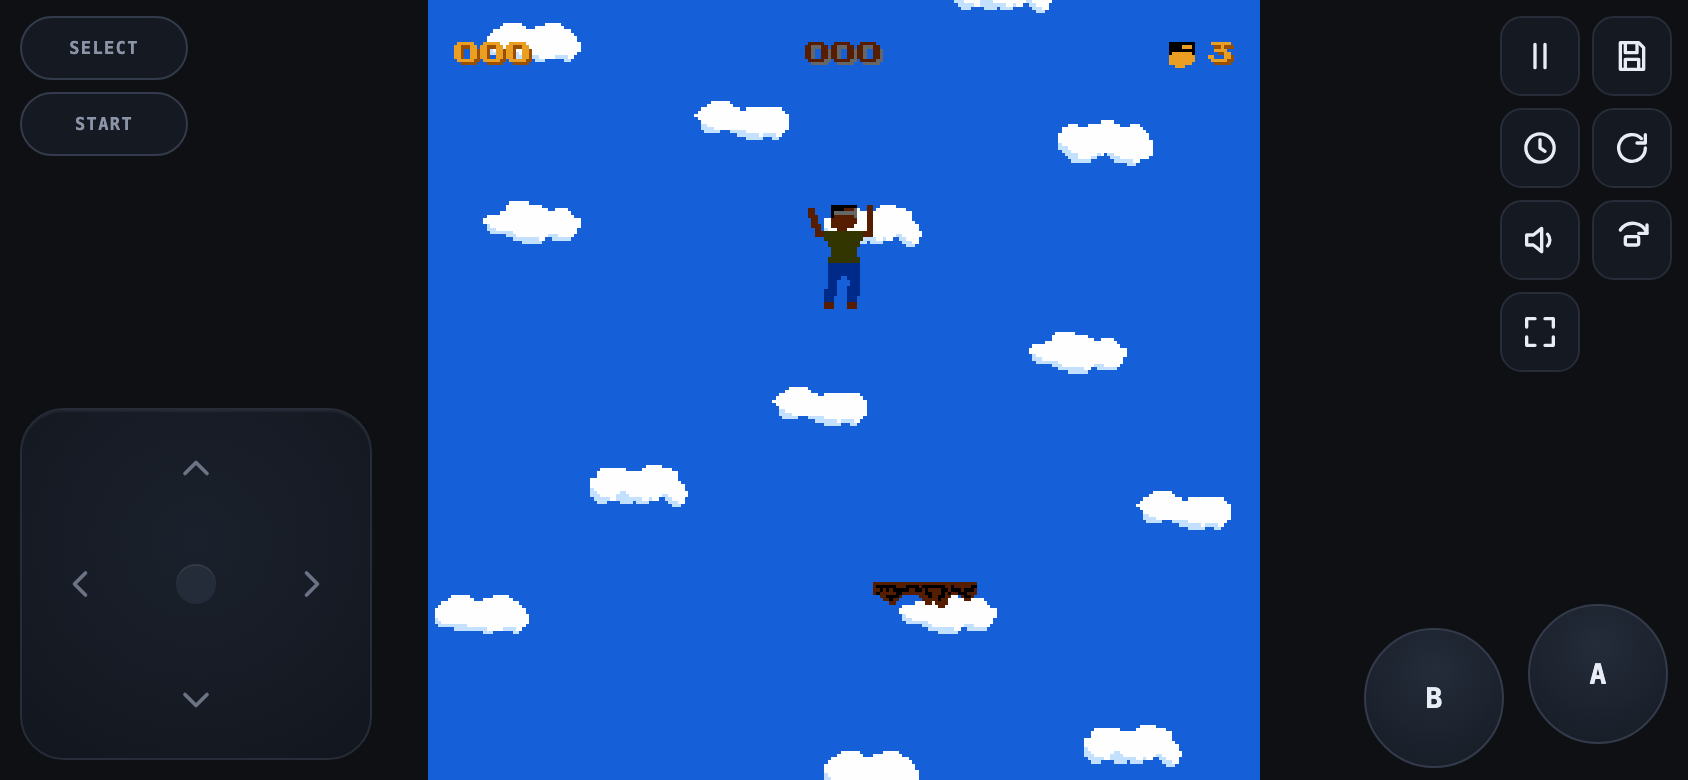
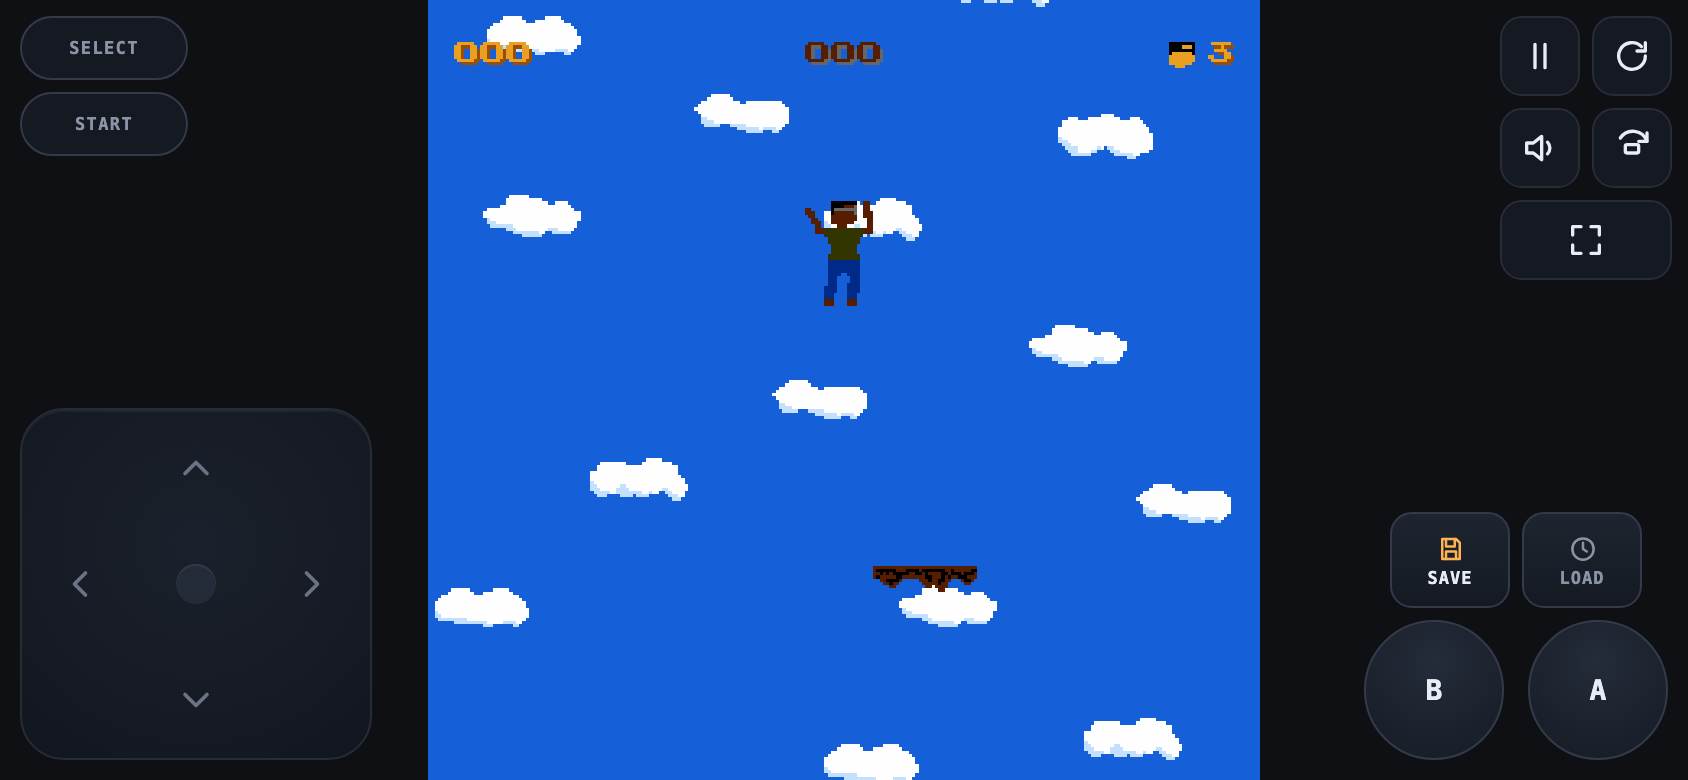
nesearch: put big save/load buttons above A/B on touch screens
The thumb pad now carries labelled Save/Load buttons directly above A/B
(60x51 on a 390px phone, 50x44 on a 320px phone, 60x48 in landscape), so a
checkpoint is one thumb tap away during play. The small toolbar pair is
hidden on touch devices; desktop keeps it next to F2/F3.

Save stays disabled until the game has started and Load until a slot exists;
both refresh when playback starts or the CPU halts. The A/B stagger is
dropped on touch so the two rows stay clear of each other.

diff --git a/nesearch/ui/play.html b/nesearch/ui/play.html
@@ -229,6 +229,11 @@
   body.touch .pad {
     display: flex; align-items: center; justify-content: space-between; gap: 8px;
   }
+  /* On touch screens Save/Load live above A/B instead of in the toolbar. */
+  body.touch #saveBtn,
+  body.touch #loadBtn { display: none; }
+  body.touch .action.a,
+  body.touch .action.b { transform: none; }
   /* Portrait: the screen keeps a little air above the thumb pad instead of
      hugging the header, which reads better on tall phones. */
   body.touch .stage-area { align-items: center; }
@@ -275,7 +280,30 @@
   }
   .sys.on { color: var(--accent); border-color: var(--accent); background: rgba(255, 180, 84, 0.1); }
 
-  .actions { display: flex; align-items: center; gap: clamp(6px, 2vw, 12px); }
+  .actions {
+    display: flex; flex-direction: column; align-items: center;
+    gap: clamp(6px, 1.6vw, 10px);
+  }
+  .action-row { display: flex; align-items: center; gap: clamp(6px, 2vw, 12px); }
+  .state-actions { display: flex; align-items: center; gap: clamp(6px, 1.6vw, 10px); }
+  .state-action {
+    display: flex; flex-direction: column; align-items: center; justify-content: center;
+    gap: 3px;
+    width: clamp(46px, 15.5vw, 66px);
+    height: clamp(44px, 13vw, 58px);
+    padding: 0;
+    border: 1px solid var(--line-strong); border-radius: 13px;
+    background: linear-gradient(180deg, #1e2530, #151a22);
+    color: var(--muted);
+    font: 650 8.5px/1 var(--mono); letter-spacing: .06em; text-transform: uppercase;
+    cursor: pointer; touch-action: none;
+  }
+  .state-action .i { width: clamp(14px, 4.6vw, 19px); height: clamp(14px, 4.6vw, 19px); }
+  .state-action.save { color: var(--text); }
+  .state-action.save .i { color: var(--accent); }
+  .state-action:active { transform: translateY(1px); }
+  .state-action[disabled] { opacity: .4; cursor: default; }
+  .state-action[disabled]:active { transform: none; }
   .action {
     width: clamp(46px, 15vw, 66px); height: clamp(46px, 15vw, 66px);
     padding: 0; border: 1px solid var(--line-strong); border-radius: 50%;
@@ -334,6 +362,7 @@
       gap: 6px;
     }
     .toolbar .tool { width: 40px; height: 40px; }
+    .toolbar #fullBtn { grid-column: 1 / -1; width: 100%; }
     .toolbar .stat { display: none; }
     body.touch .pad {
       position: fixed; inset: 0; z-index: 5;
@@ -359,14 +388,22 @@
     body.touch .actions {
       right: calc(var(--safe-r) + 10px);
       bottom: calc(var(--safe-b) + 10px);
+      gap: 6px;
     }
+    body.touch .state-action {
+      width: clamp(44px, calc(var(--side) / 2 - 12px), 60px);
+      height: clamp(38px, calc(var(--side) / 4 + 20px), 48px);
+      border-radius: 11px;
+    }
+    body.touch .state-action .i { width: 15px; height: 15px; }
+    body.touch .state-actions { gap: 6px; }
     body.touch .action {
       width: clamp(50px, calc(var(--side) / 2 - 10px), 70px);
       height: clamp(50px, calc(var(--side) / 2 - 10px), 70px);
       font-size: 14px;
     }
-    body.touch .action.a { transform: translateY(-8px); }
-    body.touch .action.b { transform: translateY(4px); }
+    body.touch .action.a,
+    body.touch .action.b { transform: none; }
   }
 
   /* Very narrow phones: the kicker only costs title space. */
@@ -516,8 +553,24 @@
       <button class="sys" type="button" data-bit="START" aria-label="Start">START</button>
     </div>
     <div class="actions">
-      <button class="action b" type="button" data-bit="B" aria-label="B button">B</button>
-      <button class="action a" type="button" data-bit="A" aria-label="A button">A</button>
+      <div class="state-actions">
+        <button class="state-action save" id="padSaveBtn" type="button" aria-label="Save checkpoint" title="Save checkpoint" disabled>
+          <svg class="i" viewBox="0 0 24 24" aria-hidden="true">
+            <path d="M5 4h11l3 3v13H5z"/><path d="M8 4v6h7V4"/><path d="M8 20v-6h8v6"/>
+          </svg>
+          <span>Save</span>
+        </button>
+        <button class="state-action load" id="padLoadBtn" type="button" aria-label="Load saved state" title="No saved state yet" disabled>
+          <svg class="i" viewBox="0 0 24 24" aria-hidden="true">
+            <circle cx="12" cy="12" r="8.5"/><path d="M12 7v5l3 2"/>
+          </svg>
+          <span>Load</span>
+        </button>
+      </div>
+      <div class="action-row">
+        <button class="action b" type="button" data-bit="B" aria-label="B button">B</button>
+        <button class="action a" type="button" data-bit="A" aria-label="A button">A</button>
+      </div>
     </div>
   </div>
 

diff --git a/nesearch/ui/play.js b/nesearch/ui/play.js
@@ -63,6 +63,8 @@ const dom = {
   pauseBtn: document.getElementById("pauseBtn"),
   saveBtn: document.getElementById("saveBtn"),
   loadBtn: document.getElementById("loadBtn"),
+  padSaveBtn: document.getElementById("padSaveBtn"),
+  padLoadBtn: document.getElementById("padLoadBtn"),
   reloadBtn: document.getElementById("reloadBtn"),
   rotateBtn: document.getElementById("rotateBtn"),
   soundBtn: document.getElementById("soundBtn"),
@@ -352,6 +354,7 @@ function stepFrame() {
     stopAudio();
     dom.pauseBtn.disabled = true;
     dom.pauseBtn.dataset.mode = "play";
+    updateStateButtons();
     showOverlay({
       heading: "CPU halted",
       text: title,
@@ -454,6 +457,7 @@ function startRunning() {
   dom.pauseBtn.disabled = false;
   dom.pauseBtn.dataset.mode = "pause";
   dom.pauseBtn.setAttribute("aria-label", "Pause");
+  updateStateButtons();
   state.rafId = requestAnimationFrame(loop);
 }
 
@@ -836,7 +840,7 @@ function updateOverlayState() {
 function updateStateButtons() {
   const loaded = Boolean(state.wasm) && Boolean(state.romBytes) && Boolean(stateApi());
   if (dom.saveBtn) {
-    dom.saveBtn.disabled = !loaded || state.halted;
+    dom.saveBtn.disabled = !loaded || state.halted || !state.started;
     dom.saveBtn.title = state.halted ? "Cannot save after a crash" : "Save state (F2)";
   }
   if (dom.loadBtn) {
@@ -846,8 +850,16 @@ function updateStateButtons() {
       ? `Load ${target.kind === "auto" ? "last session" : "checkpoint"} (F3) · ${formatAge(target.slot.at)}`
       : "No saved state yet";
   }
-  if (dom.overlaySaveBtn) dom.overlaySaveBtn.disabled = !loaded || state.halted;
+  if (dom.overlaySaveBtn) dom.overlaySaveBtn.disabled = !loaded || state.halted || !state.started;
   if (dom.overlayLoadBtn) dom.overlayLoadBtn.disabled = !hasAnySlot();
+  if (dom.padSaveBtn) {
+    dom.padSaveBtn.disabled = !loaded || state.halted || !state.started;
+    dom.padSaveBtn.title = state.halted ? "Cannot save after a crash" : "Save checkpoint";
+  }
+  if (dom.padLoadBtn) {
+    dom.padLoadBtn.disabled = !loaded || !hasAnySlot();
+    dom.padLoadBtn.title = hasAnySlot() ? "Load saved state" : "No saved state yet";
+  }
   if (dom.rotateBtn) updateRotateButton();
 }
 
@@ -873,6 +885,10 @@ function saveNow(manual) {
   }
   if (state.halted) {
     if (manual) toast("The CPU halted — restart or load the last state");
+    return false;
+  }
+  if (!state.started) {
+    if (manual) toast("Start the game before saving");
     return false;
   }
   if (!captureIntoSlot({ persist: true })) {
@@ -1335,6 +1351,8 @@ function bindUi() {
   dom.pauseBtn.addEventListener("click", togglePause);
   dom.saveBtn.addEventListener("click", () => saveNow(true));
   dom.loadBtn.addEventListener("click", () => loadNow(true));
+  dom.padSaveBtn.addEventListener("click", () => saveNow(true));
+  dom.padLoadBtn.addEventListener("click", () => loadNow(true));
   dom.rotateBtn.addEventListener("click", toggleLandscape);
   dom.reloadBtn.addEventListener("click", reloadRom);
   dom.overlaySaveBtn.addEventListener("click", (event) => {

diff --git a/CHANGELOG.md b/CHANGELOG.md
@@ -2,7 +2,7 @@
 
 ## Unreleased v1.5 (in progress)
 - Added an immersive input lock to the nesearch browser player: while fullscreen (or the iOS immersive fallback) is active, a capture-phase key guard blocks browser shortcuts and function keys, `navigator.keyboard.lock()` hands them to the page where supported, and context menus, long-press callouts, selection, drag, double-click zoom, middle-click, wheel and touch scrolling/pinch are cancelled. Leaving fullscreen with `Esc` or the button restores every default; OS-level shortcuts remain the OS's.
-- Added save states to the nesearch browser player: the wasm core now serialises CPU/PPU/APU/bus/mapper state (`gem_web_save_state` / `gem_web_load_state`, ~65 KB), and the page keeps two slots in `localStorage` — a rolling auto capture (every 10 s, on pause, on tab hide) and a manual checkpoint (`F2`), restorable with `F3` or from the pause/ready/crash overlay, preferring the checkpoint while playing and the latest auto state after a refresh. A rotate button enters fullscreen and locks landscape on Android Chrome, with an explanatory fallback on iOS Safari. The web test `GEM6502/web/test/state.mjs` and the Pages check prove the restored machine renders identical frames.
+- Added save states to the nesearch browser player: the wasm core now serialises CPU/PPU/APU/bus/mapper state (`gem_web_save_state` / `gem_web_load_state`, ~65 KB), and the page keeps two slots in `localStorage` — a rolling auto capture (every 10 s, on pause, on tab hide) and a manual checkpoint (`F2`), restorable with `F3` or from the pause/ready/crash overlay, preferring the checkpoint while playing and the latest auto state after a refresh. On touch screens the Save/Load buttons sit above A/B as larger labelled buttons, with the toolbar keeping them on desktop. A rotate button enters fullscreen and locks landscape on Android Chrome, with an explanatory fallback on iOS Safari. The web test `GEM6502/web/test/state.mjs` and the Pages check prove the restored machine renders identical frames.
 - Added `site/chip-lab.html`, an 18-slide Chinese classroom deck for primary-school students. It now puts the XiangShan development model at the center: the three loops, S0–S6 gates, lockstep DiffTest, CI/checkpoints, Chisel/generated hardware and open collaboration, then maps them onto Open6502’s NEMU/RTL/DiffTest/CI/55nm path and 46.8/100 alignment score. Includes speaker notes, a quiz, a glossary and a teacher guide; linked from the Chinese navigation and sitemap.
 - Made the nesearch static pages usable on phones. The catalog turns its sidebar into a drawer, its detail panel into a bottom sheet (a right-hand sheet in landscape), keeps filters and tables scrollable, and sizes controls for touch. The browser player gained a multi-touch thumb pad (8-way D-pad with diagonals, A/B, Select/Start), a tap-to-start overlay, a landscape layout that parks the controls in the side margins, auto-pause on tab switch, wake lock, a safe fullscreen fallback for iOS and canvas sizing that fits any viewport. Keyboard and gamepad input are unchanged.
 - Added a share row to every site page footer: native share sheet, X, Facebook, Reddit, Telegram, Hacker News and copy link. Links are real anchors built from each page's canonical URL (so they work without JavaScript), keep the current `#section`, and fall back to the canonical URL on localhost.

diff --git a/site/README.md b/site/README.md
@@ -154,7 +154,8 @@ The player (`nesearch/ui/play.html` + `play.js`) adds:
   (every 10 s, on pause, on tab hide) and a **checkpoint** written by
   `F2` / the floppy button. `F3` / the clock button or the overlay button
   restores the checkpoint while playing and the latest auto state on a fresh
-  page — including after a crash; the overlay shows both ages;
+  page — including after a crash; the overlay shows both ages. On phones the
+  Save/Load buttons move above A/B and are larger than the toolbar icons;
 - a rotate button (`L`) that enters fullscreen and locks landscape on Android
   Chrome; iOS Safari cannot lock orientation, so it shows a hint instead;
 - immersive fullscreen: while fullscreen is active the page blocks browser
